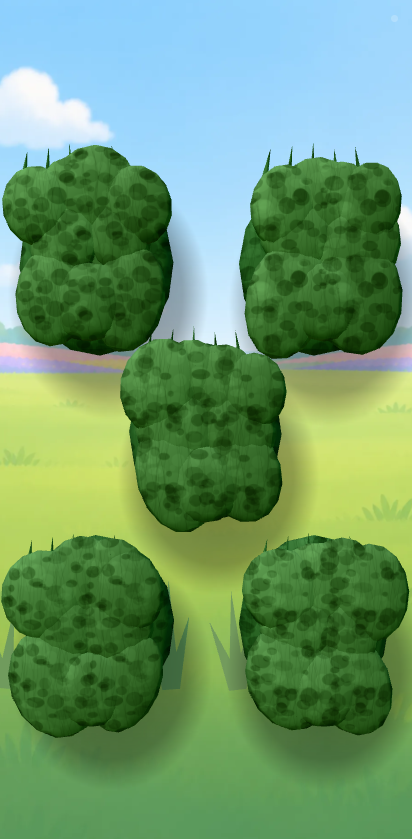
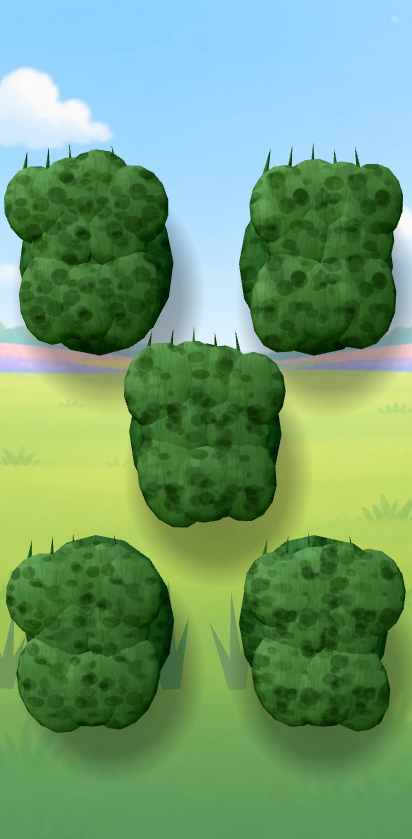
サイクル28: くさむらの振り幅を戻す（隣とくっついていた）
株ごとの差を大きくしすぎて、のはら の上の3株が画面上で1つの塊に
つながっていた。**押す場所が3つあることが読めなくなる**ので後退。
実測: 隠れ場所の連結成分が 5つ → 3つ、いちばん大きいものが 84,119px
（本来は 25,000〜28,000px が5つ）。

+30%・±0.08 → +17%・±0.05 に戻して、5つに分かれることを確認した。
判で押した感じは残らない程度の差は保っている。

判定（visual-judge）は 48点 → **69点**。場面ごとは
おうち 88 / そと 75 / うみ 85 / のうじょう 73 / どうぶつえん 85 /
きょうりゅう 69 / のはら 92。

Claude-Session: https://claude.ai/code/session_01CKSSptub2R8nw4GNxWzQ6d

diff --git a/src/peekaboo/SpotShapes.ts b/src/peekaboo/SpotShapes.ts
@@ -724,18 +724,22 @@ function createBush(p: Palette, seed: number): SpotShape {
       // 判定に「5株とも輪郭の4つの塊の並びも上のトゲの生え方も同一で、
       // 違うのは表面の斑点の位置だけ」と2回続けて言われた。
       // 大きさは**大きくする側にしか振らない**（縮めると隙間が開く）
-      const grow = 1 + rng() * 0.3;
+      // **広げすぎると隣とくっつく。** +30%・±0.08 まで振ったら、
+      // のはら の上の3株が画面上で1つの塊につながり、
+      // 押す場所が3つあることが読めなくなった（2026-09-08 の実測:
+      // 連結成分が 5つ → 3つ、いちばん大きいものが 84,119px）
+      const grow = 1 + rng() * 0.17;
       blob.scale.set(
-        HALF_W * 0.42 * grow * (0.9 + rng() * 0.25),
+        HALF_W * 0.42 * grow * (0.94 + rng() * 0.13),
         HALF_H * blobs[i][3] * grow,
         0.14
       );
       blob.position.set(
-        blobs[i][0] + (rng() - 0.5) * 0.16,
-        blobs[i][1] + (rng() - 0.5) * 0.14,
+        blobs[i][0] + (rng() - 0.5) * 0.1,
+        blobs[i][1] + (rng() - 0.5) * 0.12,
         FRONT_Z + blobs[i][2]
       );
-      blob.rotation.z = (rng() - 0.5) * 0.9;
+      blob.rotation.z = (rng() - 0.5) * 0.8;
       bunch.add(blob);
     }
     // **中央でしっかり重ねる。** 0.03 しか寄せていなかったときは、

diff --git a/docs/visual-log.md b/docs/visual-log.md
@@ -55,6 +55,8 @@
 
 | 27 | 岩の「塞ぐ板」をやめて、球を6→8個に増やして隙間を埋める | 12 | 10 | 採用 | 板は角丸にしても楕円にしても詰めても、空を背に面として見えた（詰めると遮蔽が漏れる）。**塞ぐものが球なら、はみ出しても岩に見える**。8個を1つのジオメトリに結合したので draw call はむしろ baseline より減った |
 
+| 28 | くさむらの振り幅を +30% → +17% に戻す | 12 | 10 | 採用 | 広げすぎて上の3株が画面上でつながり、**押す場所が3つあることが読めなくなった**（連結成分 5 → 3、いちばん大きいものが 84,119px）|
+
 ## 判定（`visual-judge`）の推移
 
 | 回 | 全体 | いちばん悪い場面 | 次に直すべき1件 |
@@ -62,7 +64,7 @@
 | baseline | 57点 | ouchi 57 | 平らな面に形に沿った明暗を付ける |
 | サイクル16後 | 57点 | kyoryu 57 | 面の明暗を模様ではなく光の向きに沿った勾配で作る |
 | サイクル20後 | 48点 | kyoryu 48 | 岩の上の板を**形ごと**外す |
-| サイクル25後 | 未実施 | — | （セッション上限で保留）|
+| サイクル25後 | **69点** | kyoryu 69 | 岩の後ろの平板を本当に外す（サイクル27で実施済み）|
 
 **サイクル20後に一度下がっている**のは、岩の板を「板＋瘤」にした版が
 「上下の縁が平行な直線の梁のまま」と読まれたため。サイクル21で形ごと外した。
